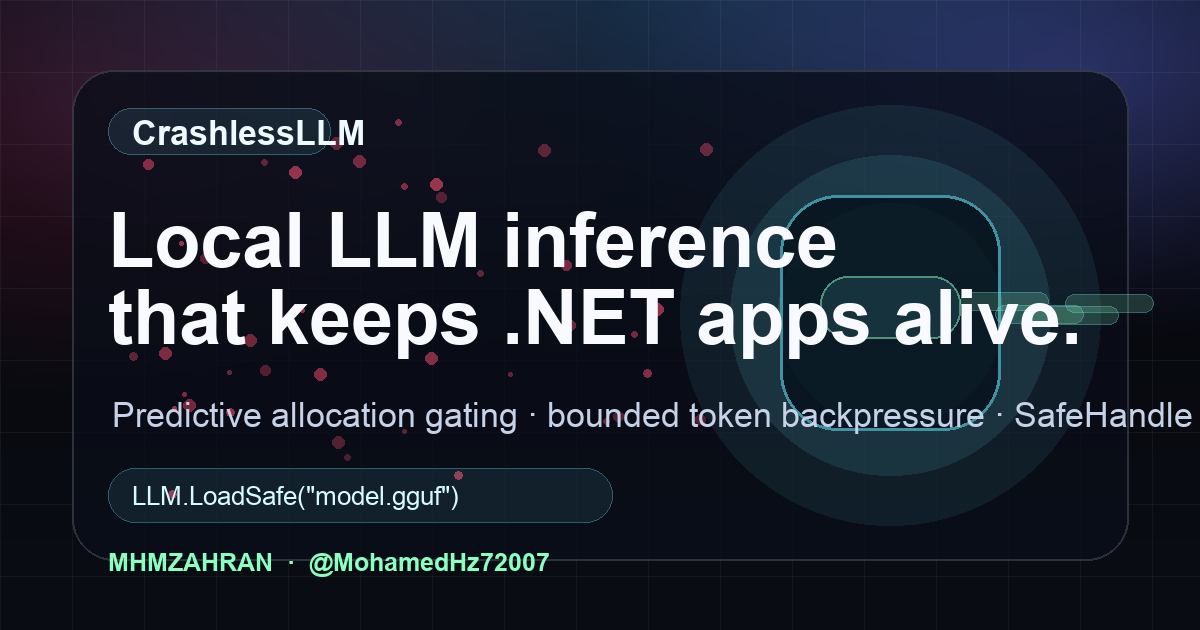
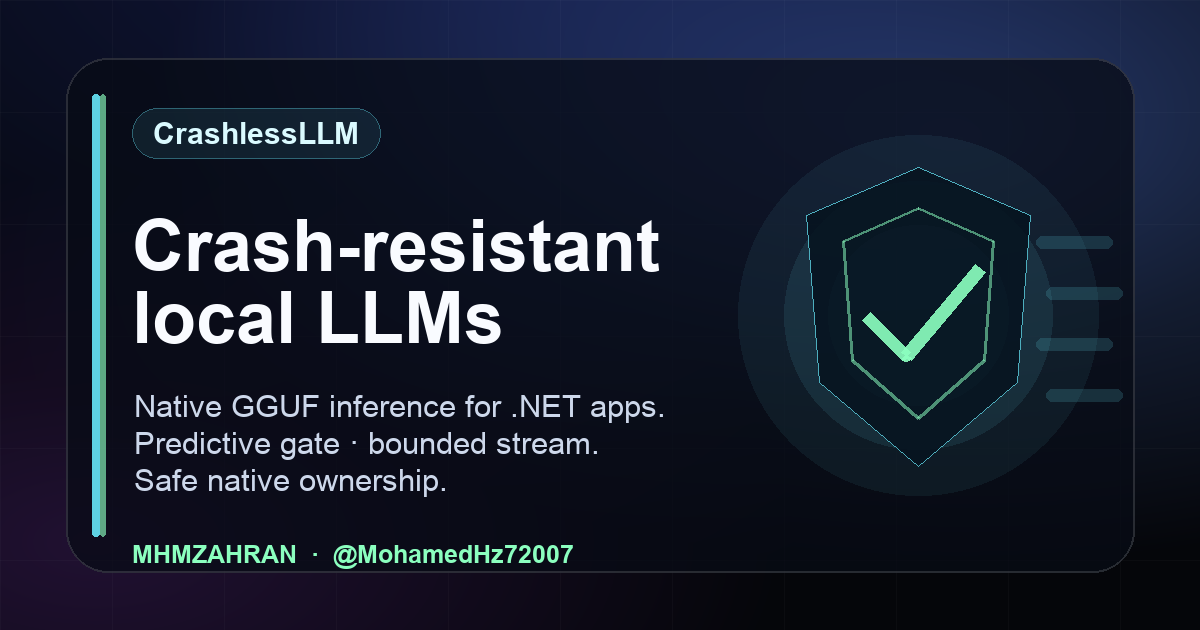
Clean up social preview and docs system map.
- Simplified the 1200x630 social card to avoid crowded overlapping text
- Replaced the docs system map arrow chain with numbered responsive cards
- Added overflow-safe wrapping for long API names inside system map cards

Generated with [Devin](https://cli.devin.ai/docs)

Changed region(s): [[0.0, 0.0, 1.0, 0.9651], [0.5858, 0.2111, 0.6167, 0.2413], [0.4317, 0.2111, 0.4625, 0.2413]]

diff --git a/docs/docs.css b/docs/docs.css
@@ -308,41 +308,83 @@ code {
 
 .pipeline-grid {
   display: grid;
-  grid-template-columns: minmax(0, 1fr) auto minmax(0, 1fr) auto minmax(0, 1fr);
-  gap: 12px;
+  grid-template-columns: repeat(3, minmax(0, 1fr));
+  gap: 14px;
   align-items: stretch;
   margin-top: 28px;
 }
 
 .pipeline-node {
+  position: relative;
   display: grid;
-  gap: 10px;
-  min-height: 150px;
-  padding: 18px;
-  border-radius: 22px;
+  min-width: 0;
+  gap: 12px;
+  align-content: start;
+  min-height: 178px;
+  padding: 20px;
+  overflow: hidden;
+  border-radius: 24px;
+  background:
+    radial-gradient(circle at top right, rgba(103, 232, 249, 0.08), transparent 58%),
+    rgba(255, 255, 255, 0.045);
+}
+
+.pipeline-node::before {
+  position: absolute;
+  inset: 0 auto auto 0;
+  width: 100%;
+  height: 3px;
+  background: linear-gradient(90deg, rgba(103, 232, 249, 0.75), rgba(103, 232, 249, 0));
+  content: "";
+}
+
+.pipeline-node span,
+.pipeline-node code {
+  min-width: 0;
+  overflow-wrap: anywhere;
+}
+
+.pipeline-node .pipeline-step {
+  width: fit-content;
+  padding: 5px 9px;
+  border: 1px solid rgba(103, 232, 249, 0.22);
+  border-radius: 999px;
+  color: var(--cyan);
+  background: rgba(103, 232, 249, 0.08);
+  font-size: 0.72rem;
+  font-weight: 800;
+  letter-spacing: 0.08em;
+  line-height: 1;
 }
 
 .pipeline-node strong {
   color: var(--text);
+  font-size: 1.05rem;
+  line-height: 1.25;
 }
 
 .pipeline-node.gate {
   border-color: rgba(139, 255, 191, 0.24);
 }
 
+.pipeline-node.gate::before {
+  background: linear-gradient(90deg, rgba(139, 255, 191, 0.72), rgba(139, 255, 191, 0));
+}
+
 .pipeline-node.native {
   border-color: rgba(167, 139, 250, 0.26);
 }
 
-.pipeline-node.ui {
-  grid-column: 3 / span 1;
+.pipeline-node.native::before {
+  background: linear-gradient(90deg, rgba(167, 139, 250, 0.72), rgba(167, 139, 250, 0));
+}
+
+.pipeline-node.ui::before {
+  background: linear-gradient(90deg, rgba(139, 255, 191, 0.72), rgba(103, 232, 249, 0));
 }
 
 .pipeline-arrow {
-  display: grid;
-  place-items: center;
-  color: var(--cyan);
-  font-size: 1.8rem;
+  display: none;
 }
 
 .error-grid,
@@ -411,14 +453,6 @@ code {
   .error-grid,
   .docs-metrics {
     grid-template-columns: repeat(2, minmax(0, 1fr));
-  }
-
-  .pipeline-arrow {
-    display: none;
-  }
-
-  .pipeline-node.ui {
-    grid-column: auto;
   }
 }
 

diff --git a/docs/index.html b/docs/index.html
@@ -101,15 +101,11 @@
         <h2>The boundary is deliberately layered.</h2>
         <p>The architecture separates developer ergonomics from native survival mechanics. The public surface remains small while the internals enforce admission control, ABI safety, streaming pressure control, and deterministic cleanup.</p>
         <div class="pipeline-grid">
-          <div class="pipeline-node managed"><strong>Avalonia / .NET app</strong><span>Calls <code>LLM.LoadSafe()</code> and consumes <code>IAsyncEnumerable&lt;string&gt;</code>.</span></div>
-          <div class="pipeline-arrow">→</div>
-          <div class="pipeline-node"><strong>Managed facade</strong><span>Validates ABI, applies defaults, maps errors into exceptions.</span></div>
-          <div class="pipeline-arrow">→</div>
-          <div class="pipeline-node gate"><strong>Predictive allocation gate</strong><span>Refuses unsafe model/context admissions before native load.</span></div>
-          <div class="pipeline-arrow">→</div>
-          <div class="pipeline-node native"><strong>Opaque C ABI session</strong><span>No C++ ownership crosses into managed code.</span></div>
-          <div class="pipeline-arrow">→</div>
-          <div class="pipeline-node ui"><strong>Bounded token stream</strong><span>UTF-8 reconstructed, channel backpressured, UI remains async.</span></div>
+          <div class="pipeline-node managed"><span class="pipeline-step">01</span><strong>Avalonia / .NET app</strong><span>Calls <code>LLM.LoadSafe()</code> and consumes <code>IAsyncEnumerable&lt;string&gt;</code>.</span></div>
+          <div class="pipeline-node"><span class="pipeline-step">02</span><strong>Managed facade</strong><span>Validates ABI, applies defaults, maps errors into exceptions.</span></div>
+          <div class="pipeline-node gate"><span class="pipeline-step">03</span><strong>Predictive allocation gate</strong><span>Refuses unsafe model/context admissions before native load.</span></div>
+          <div class="pipeline-node native"><span class="pipeline-step">04</span><strong>Opaque C ABI session</strong><span>No C++ ownership crosses into managed code.</span></div>
+          <div class="pipeline-node ui"><span class="pipeline-step">05</span><strong>Bounded token stream</strong><span>UTF-8 reconstructed, channel backpressured, UI remains async.</span></div>
         </div>
       </section>
 